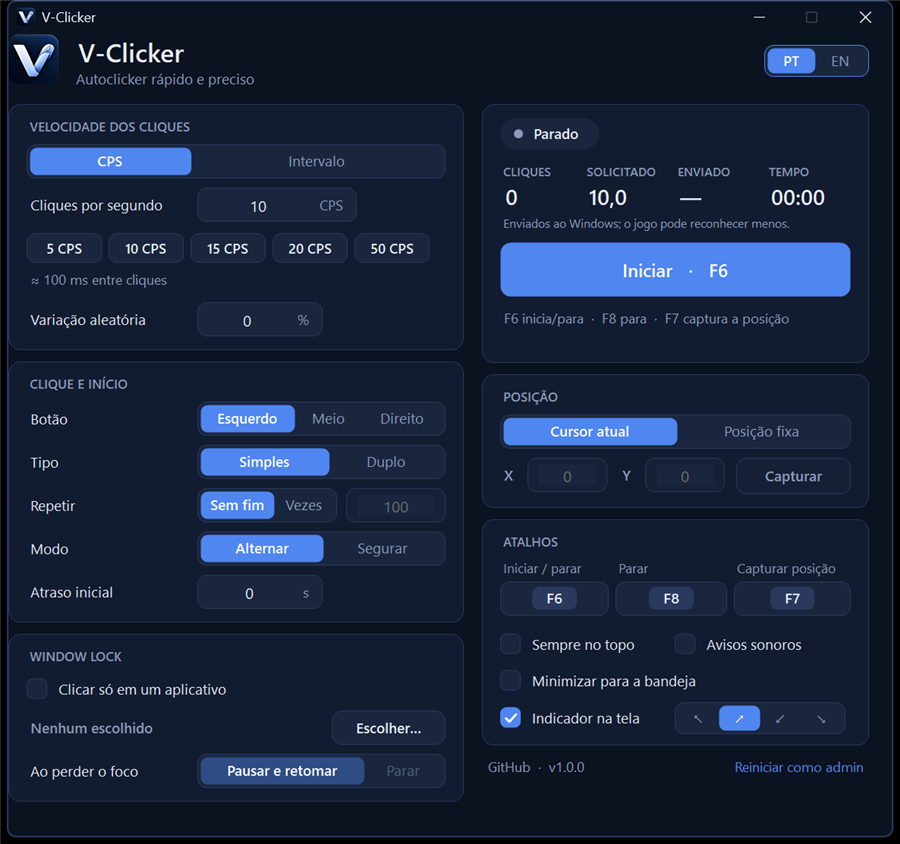
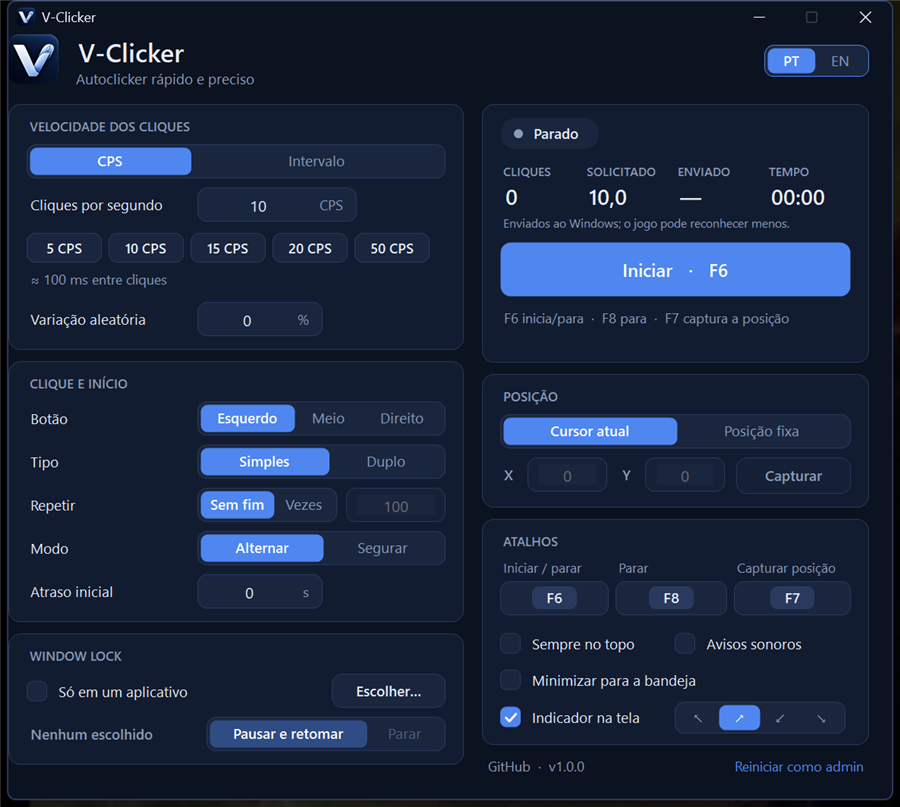
Window Lock card in two rows so the window fits a 720 px tall screen
CI measured 741 px after the previous layout change.

diff --git a/src/MainForm.cs b/src/MainForm.cs
@@ -516,14 +516,14 @@ namespace VClicker
 
         private Control BuildLockCard()
         {
-            Grid body = Table(LabelColumn, "100%");
+            // Two rows (switch + Choose, app + focus-loss mode) keep the window laptop-sized.
+            Grid body = Table("100%", "auto");
             FullRow(body, Title("card.lock"));
 
             chkLock = Check("lock.enable");
             chkLock.AccessibleName = "Window Lock";
             lockable.Add(chkLock);
             Localize(() => tips.SetToolTip(chkLock, Loc.T("lock.tip")));
-            FullRow(body, chkLock);
 
             lockAppLabel = new Label
             {
@@ -543,15 +543,18 @@ namespace VClicker
             });
             lockChoose.Click += OnChooseLockApp;
             lockable.Add(lockChoose);
-            Grid app = Table("100%", "auto");
-            Row(app, lockAppLabel, lockChoose);
-            FullRow(body, app);
+            chkLock.Anchor = AnchorStyles.Left;
+            lockChoose.Anchor = AnchorStyles.Right;
+            Row(body, chkLock, lockChoose);
 
             segLockMode = Seg("lock.pause", "lock.stop");
             segLockMode.AccessibleName = "When the app loses focus";
+            segLockMode.Dock = DockStyle.None;
+            segLockMode.Size = Theme.Sz(210, 30);
             lockable.Add(segLockMode);
             segLockMode.SelectedChanged += OnConfigChanged;
-            Row(body, RowLabel("lock.onFocusLoss"), segLockMode);
+            Localize(() => tips.SetToolTip(segLockMode, Loc.T("lock.onFocusLoss")));
+            Row(body, lockAppLabel, segLockMode);
 
             return NewCard(body);
         }

diff --git a/src/Loc.cs b/src/Loc.cs
@@ -101,11 +101,11 @@ namespace VClicker
 
             // window lock
             ["card.lock"] = new[] { "WINDOW LOCK", "WINDOW LOCK" },
-            ["lock.enable"] = new[] { "Clicar só em um aplicativo", "Only click inside one app" },
+            ["lock.enable"] = new[] { "Só em um aplicativo", "Only in one app" },
             ["lock.tip"] = new[] { "Os cliques só acontecem com o aplicativo escolhido em primeiro plano; num Alt+Tab, o V-Clicker pausa.", "Clicks only happen while the chosen app is in front; on Alt+Tab, V-Clicker pauses." },
             ["lock.none"] = new[] { "Nenhum escolhido", "None chosen" },
             ["lock.choose"] = new[] { "Escolher…", "Choose…" },
-            ["lock.onFocusLoss"] = new[] { "Ao perder o foco", "On focus loss" },
+            ["lock.onFocusLoss"] = new[] { "Quando o aplicativo perde o foco (Alt+Tab): pausar e retomar ao voltar, ou parar de vez.", "When the app loses focus (Alt+Tab): pause and resume when it is back, or stop for good." },
             ["lock.pause"] = new[] { "Pausar e retomar", "Pause & resume" },
             ["lock.stop"] = new[] { "Parar", "Stop" },
             ["picker.title"] = new[] { "Escolher aplicativo", "Choose an app" },
